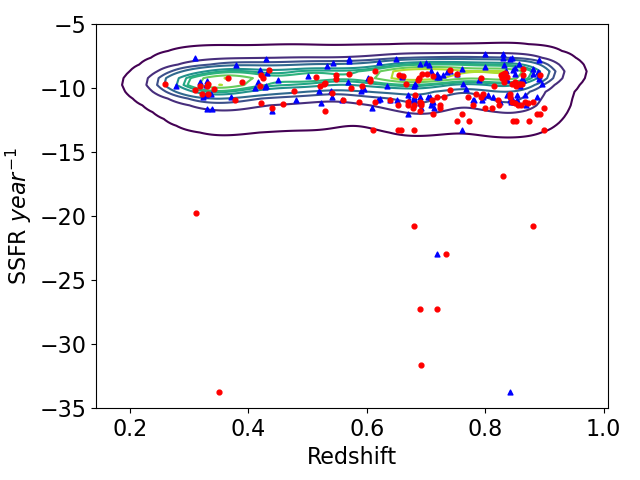
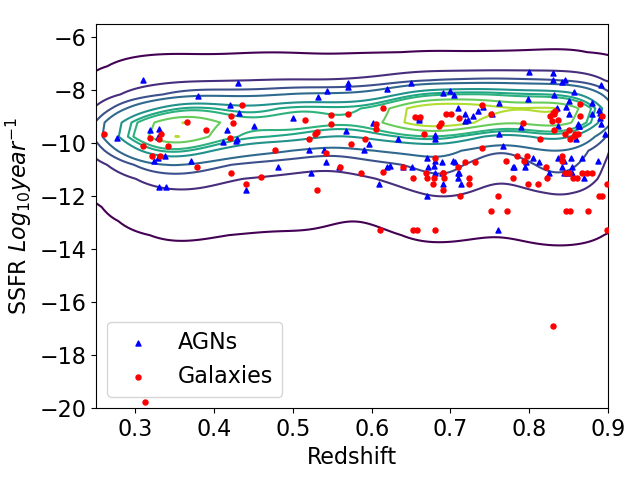
fresh plots init

diff --git a/Plottingscript.py b/Plottingscript.py
@@ -56,7 +56,7 @@ def ssfr_mass_graph(filenum,contour_data):
 
     plt.subplots_adjust(bottom=0.15,top=0.95,left=0.15,right=0.95)
 
-    sns.kdeplot(data=contour_data,x='mass_best',y='sfr_best',cmap='viridis',zorder=1) 
+    sns.kdeplot(data=contour_data,x='zpdf',y='ssfr_best',cmap='viridis',zorder=1) 
     # Seaborn (sns here) does contour plots really well, just needs an x and y input and its all sorted
     #In general, the 'data' parameter tells the function where to get data from, here it takes data from 'contour_data' with the x coords being
     #   'mass_best' and y being 'ssfr_best', both of these are column names from the 'contour_data' data frame
@@ -64,17 +64,17 @@ def ssfr_mass_graph(filenum,contour_data):
     #zorder determines which plot is made first, here the lines are in the background so zorder is 1
     #cmap just sets a colour scheme for the contour lines, if you want a different map theres a list here: https://matplotlib.org/stable/gallery/color/colormap_reference.html
 
-    ax.scatter('mass_best','sfr_best',c='b',s=13,data=agns,marker='^',label='AGNs',zorder=2)
-    ax.scatter('mass_best','sfr_best',c='r',s=13,data=gals,label='Galaxies',zorder=3)
+    ax.scatter('zpdf_1','ssfr_best',c='b',s=13,data=agns,marker='^',label='AGNs',zorder=2)
+    ax.scatter('zpdf_1','ssfr_best',c='r',s=13,data=gals,label='Galaxies',zorder=3)
     # This does the scattering of the agn and non-agn points
     # All the formatting is done in the arguments (c,s,data, etc)
     # c is the colour, s is the size, marker is the shape of the point
     # some of these can take multiple different input formats, please see the matplotlib documentation for each function
 
-    ax.set_xlabel('Total Mass $Log_{10}M_{\odot}$')
-    ax.set_ylabel('SFR $Log_{10} year^{-1}$')
-    ax.set_ylim(bottom=-10)
-    ax.set_xlim(left=7,right=11.8)
+    ax.set_xlabel('Redshift')
+    ax.set_ylabel('SSFR $Log_{10} year^{-1}$')
+    ax.set_ylim(bottom=-20)
+    ax.set_xlim(left = 0.25, right = 0.9)
     #add background of wider cosmos galaxy samples - contour plot [DONE]
     #histogram of ssfr and mass
     #anderson-darling for ssfr [done]
@@ -82,14 +82,14 @@ def ssfr_mass_graph(filenum,contour_data):
 
     ax.legend(loc='lower left')
 
-    plt.savefig('Plots/sfr-stellarmass/set ' + str(filenum) + '.png')
+    plt.savefig('Plots/zpdf-ssfr/set ' + str(filenum) + '.png')
     #plt.show()
 
-'''i = 1
-big_data = getbigdata('mass_best','sfr_best')
+i = 1
+big_data = getbigdata('zpdf','ssfr_best')
 while i <= 10:
     ssfr_mass_graph(i,big_data)
-    i+=1'''
+    i+=1
 
 
 
@@ -230,4 +230,4 @@ def doublehistogram():
     plt.show()
 
     
-doublehistogram()
+#doublehistogram()
